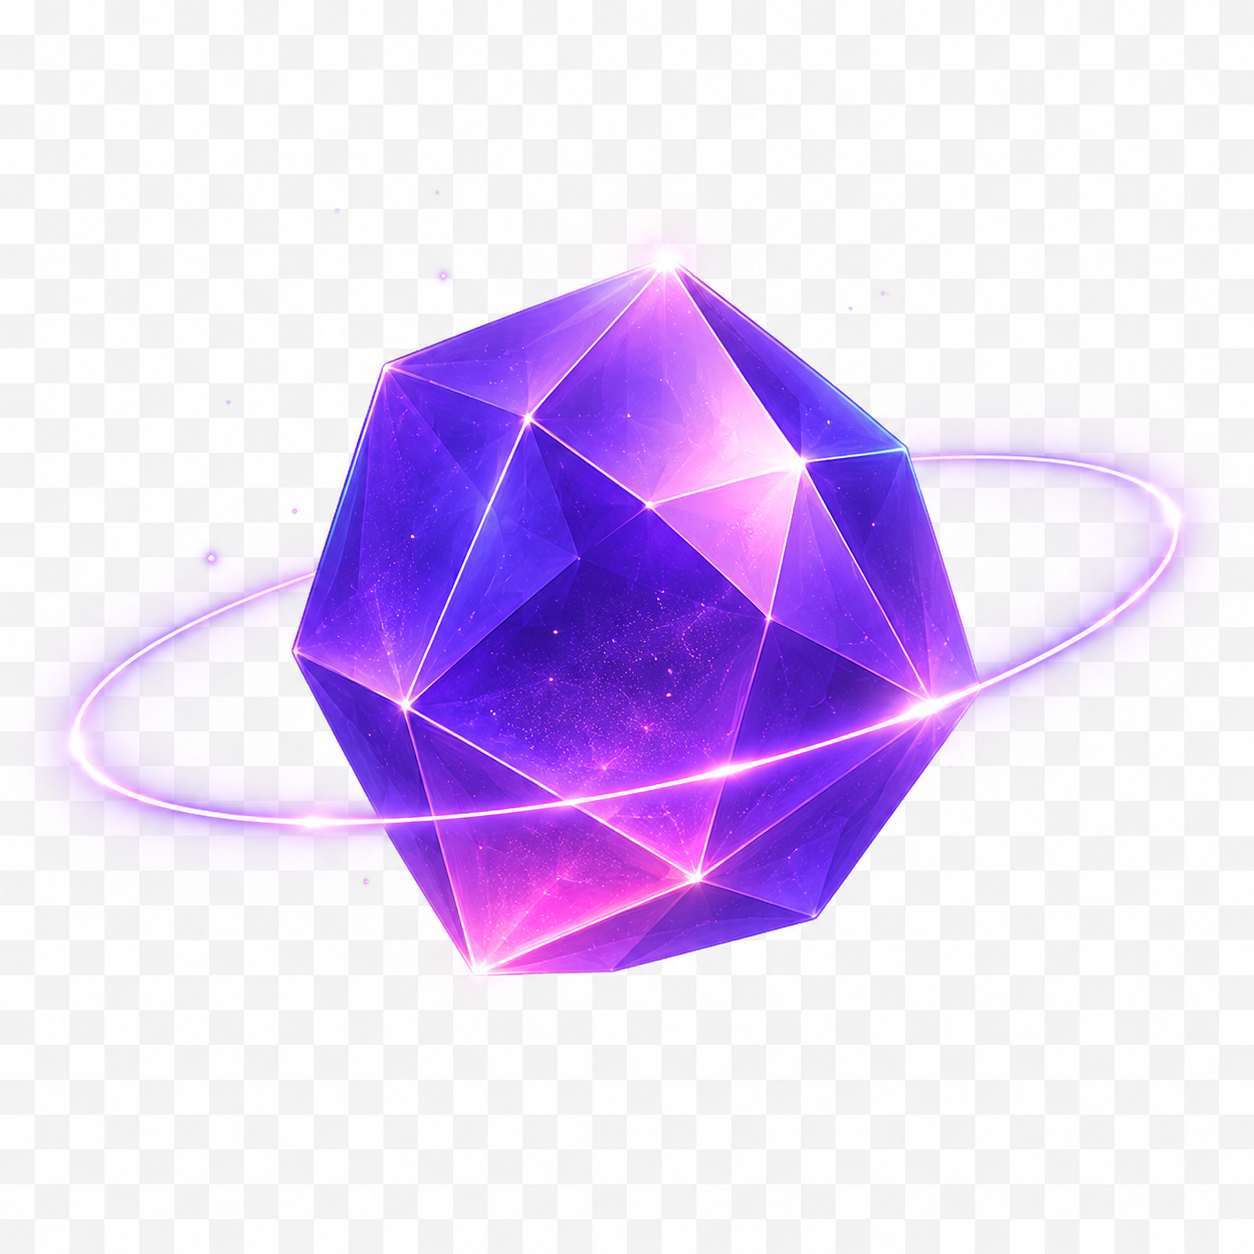
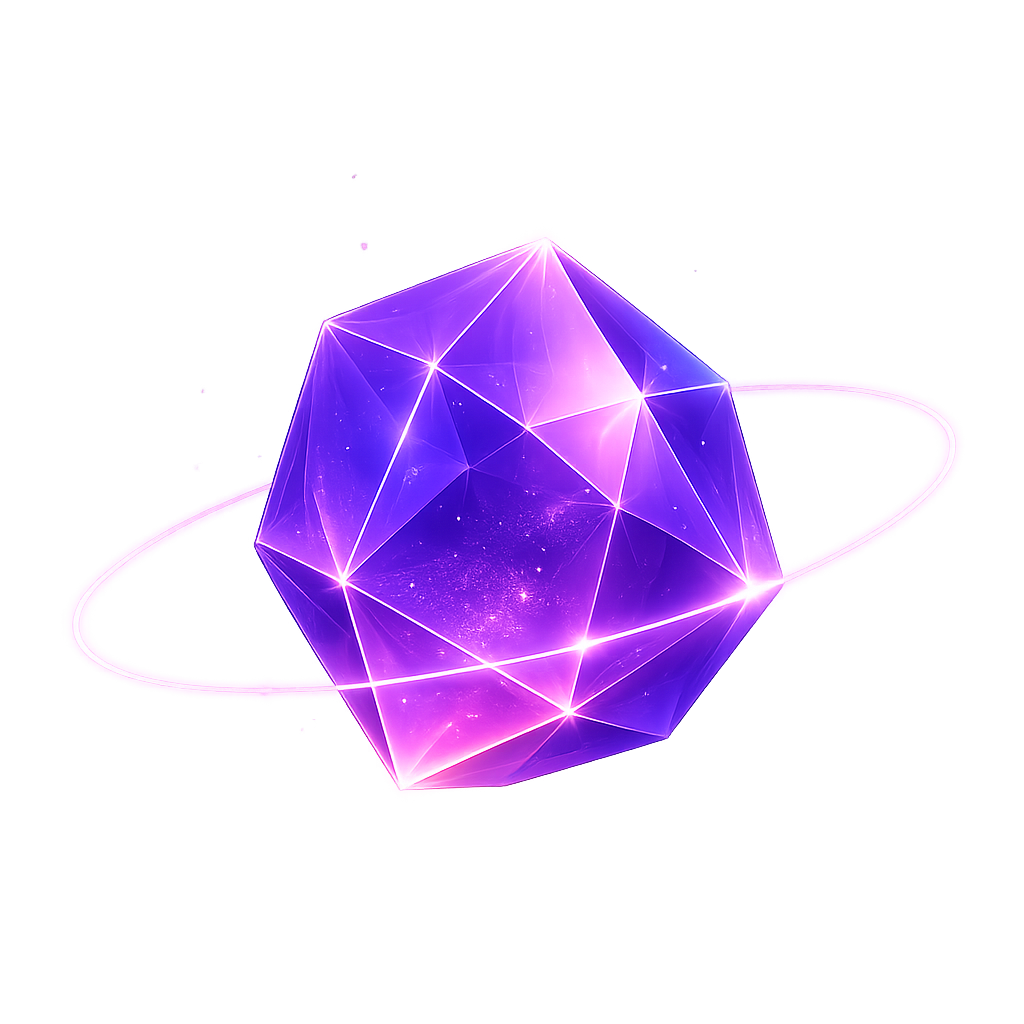
completed "blockMainInfo"

Changed region(s): [[0.0312, 0.1875, 0.9688, 0.7812]]

diff --git a/style.css b/style.css
@@ -230,6 +230,7 @@ body {
     display: flex;
     flex-direction: column;
     margin-left: 30px;
+    position: relative;
 }
 
 .blockMainInfo{
@@ -237,13 +238,85 @@ body {
     height: 610px;
     display: flex;
     flex-direction: column;
-    justify-content: center;
     background-image: url("./img/main_page.png");
     background-size: cover;
     border-radius: 30px;
     border: 1px solid grey;
+    padding: 90px 0 0 40px;
 }
 
-.blockMainInfo{
-    
+.blockMainInfo h1{
+    font-size: 50px;
+    color: white;
+    margin-bottom: 30px;
 }
+
+.mainInfoTitle{
+    background: linear-gradient( 45deg , #d366dd   , #a195fc   , #37b8ec  );
+    background-clip: text;
+    color:transparent;
+}
+
+.blockMainInfo p{
+    font-size: 30px;
+    color: #9193b3;
+    margin-bottom: 45px;
+}
+
+.mainInfoRelative{
+    color: #3176c0;
+}
+
+.mainInfoAbsolute{
+    color: #ca46b1;
+}
+
+.mainInfoFixed{
+    color: #aed433;
+}
+
+.mainInfoSticky{
+    color: #c0b745;
+}
+
+.blockMainInfo button{
+    width: 220px;
+    height: 60px;
+    border-radius: 20px;
+    background: linear-gradient(90deg, #b862d2 0%, #6372ff 50%, #5ba8f0 100%);
+    color: white;
+    font-size: 16px;
+    cursor: pointer;
+}
+
+.buttonRightArrow{
+    padding-left: 30px;
+}
+
+.blockMainInfo img{
+    height: 230px;
+    position: absolute;
+
+}
+
+.mainInfoImg_1{
+    bottom: 200px;
+    right: 190px;
+}
+
+.mainInfoImg_2{
+    top: -10px;
+    right: 520px;
+}
+
+
+.mainInfoImg_3{
+    bottom: 220px;
+    left: 250px;
+}
+
+.mainInfoImg_4{
+    right: -30px;
+    top: -50px;
+}
+

diff --git a/index.html b/index.html
@@ -20,7 +20,7 @@
                 </div>
             </div>
             <div class="buttonStart">
-                <button>Почати практику →</button>
+                <button>Почати практику <span class="buttonRightArrow">→</span></button>
             </div>
         </div>
         <div class="main">
@@ -81,13 +81,19 @@
             </div>
             <div class="mainInfo">
                 <div class="blockMainInfo">
-                    <h1>Практика всіх <br>значень <span class="MainInfoTitle">CSS position</span> </h1>
+                    <img class="mainInfoImg_1" src="./img/figure_planet.png" alt="">
+                    <img class="mainInfoImg_2" src="./img/discount.png" alt="">
+                    <img class="mainInfoImg_3" src="./img/progres_bar.png" alt="">
+                    <img class="mainInfoImg_4" src="img/newTask.png" alt="">
+                    <h1>Практика всіх <br>значень <span class="mainInfoTitle">CSS position</span> </h1>
                     <p>
-                        Макет для тренування <span class="mainInfoStatic">Static</span> , <span class="mainInfoRelative">Relative</span> ,<br> <span class="mainInfoAbsolute">Absolute</span> , <span class="mainInfoFixed">Fixed</span> та <span class="mainInfoSticky">Sticky</span> 
+                        Макет для тренування Static , <span class="mainInfoRelative">Relative</span> ,<br> <span class="mainInfoAbsolute">Absolute</span> , <span class="mainInfoFixed">Fixed</span> та <span class="mainInfoSticky">Sticky</span> 
                     </p>
-                    <button>Почати Практику </button>
+                    <button>Почати Практику <span class="buttonRightArrow">→</span></button>
                 </div>
             </div>
+            </div>
+
 
         </div>
     </div>